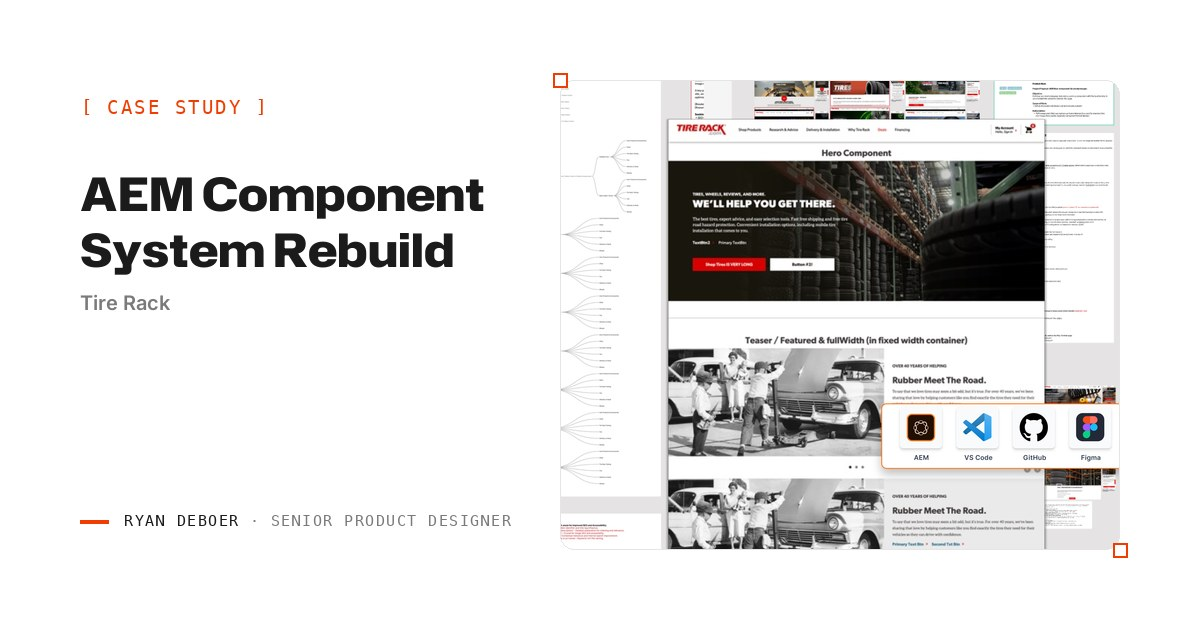
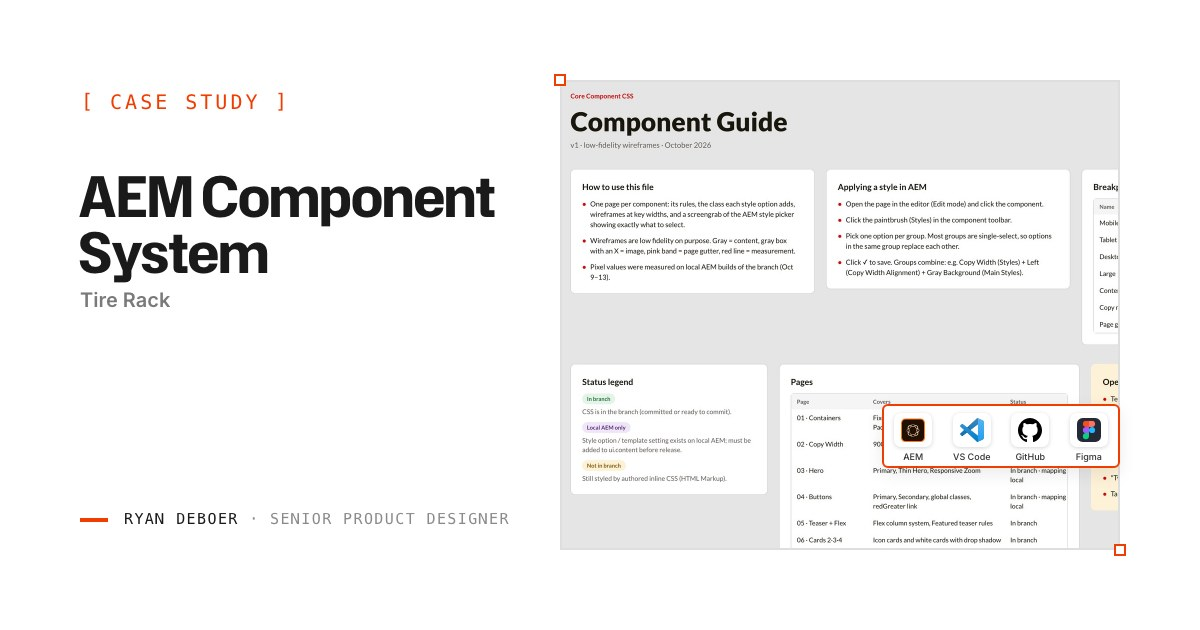
Reframe AEM case study around the Figma component guide

diff --git a/src/data/projects.ts b/src/data/projects.ts
@@ -227,6 +227,26 @@ const liveComponent = (name: string, alt: string, caption: string): ProjectImage
   alt, caption, layout: 'full',
 });
 
+// Boards from the October 2026 Figma component guide, rendered from the file
+// with the project number and branch name removed. Shared by the full study
+// and its compact edition so captions stay attached to the same artifact.
+const componentGuide = (name: string, alt: string, caption: string): ProjectImage => ({
+  src: `/images/work/aem-component-system/component-guide/${name}.jpg`,
+  alt, caption, layout: 'full',
+});
+const GUIDE = {
+  readMe: componentGuide('guide-read-me', 'Component guide read-me page with usage notes, AEM style steps, breakpoints, a status legend, the page index, and open items', 'The read-me page: how to use the guide, how to apply a style in AEM, breakpoints and key sizes, the status legend, and the open items.'),
+  containers: componentGuide('containers-rules', 'Containers page with layout rules, the class each style option adds, and AEM style picker screengrabs', 'Containers: one layout style and an optional background. Nested containers drop their side padding, so gutters never stack.'),
+  copyWidth: componentGuide('copy-width-rules', 'Copy Width page with alignment rules, class names, and AEM style picker screengrabs', 'Copy Width: a 900px column with its own alignment group. The recommended setup nests it inside a Fixed Width section.'),
+  flex: componentGuide('flex-rules', 'Teaser and Flex page with column rules by screen width and number of children', 'Teaser + Flex: columns follow the screen width and the number of children, and Featured teasers line their links up across each row.'),
+  table: componentGuide('table-gap', 'Table page documenting the tire size table as rendered today, marked Not in branch', 'Table: documented as rendered today and marked Not in branch, with a recommendation to move its rules under Tr Table.'),
+  heroUpdates: componentGuide('hero-branch-updates', 'List of hero changes made in the branch, each with the behavior it replaced', 'Hero: each change in the branch, listed beside the behavior it replaced.'),
+  teaserBeforeAfter: componentGuide('teaser-before-after', 'Featured teaser at 1024px before and after the branch, and stacked at 375px', 'Featured teaser at 1024px: the image pinned to the top before the branch, centered beside the copy after it, and stacked at 375px.'),
+  buttons: componentGuide('buttons-states-arrow-link', 'Button states and the wrapping rules for the arrow text link', 'Button states, the narrow-column rule, and the orphaned arrow the no-break space prevents.'),
+  heroAuthor: componentGuide('hero-author-primary', 'AEM editor reference with the hero selected, Styles open, numbered author steps, and the resulting classes', 'Author reference: the AEM editor at 1440px with Styles open, numbered steps, and the classes that result.'),
+  heroPreview: componentGuide('hero-author-preview', 'Homepage hero preview at 1440px and 375px with the image crop held at 50 percent', 'What visitors see at 1440px and at 375px, with the crop held at 50%.'),
+};
+
 const projects: Project[] = [
   {
     slug: 'figma-template-governance',
@@ -1159,107 +1179,93 @@ const projects: Project[] = [
   },
 
   // =============================================
-  // 5. AEM Component System Rebuild  [image RIGHT]
+  // 5. AEM Component System  [image RIGHT]
   // =============================================
   {
     slug: 'aem-component-system',
     context: TIRE_RACK_CONTEXT,
     publicContext: PUBLIC_RETAILER_CONTEXT,
-    thesis: 'Stop authoring and engineering from solving the same problem twice.',
+    thesis: 'Every style option gets a rule, a class, and a picture of what to pick.',
     annotations: {
-      problem: 'A decade of AEM authoring with no core system underneath.',
-      gaps: 'No reusable patterns, no variables. The same work, done twice.',
-      constraints: 'A live enterprise CMS and a dev team still learning the codebase.',
-      approach: 'I wrote the specs and shipped the production Sass.',
-      outcome: 'One system design, dev, SEO, and accessibility all build against.',
+      problem: 'Style options the CSS could not keep.',
+      gaps: 'Option names are not results.',
+      constraints: 'Two release paths: CSS in the branch, settings in ui.content.',
+      approach: 'Measured in AEM, defined in Figma, fixed in Sass.',
+      outcome: 'In branch, with the open items written down.',
     },
     stream: 'professional',
     client: 'Tire Rack',
-    title: 'AEM Component System Rebuild',
-    seoTitle: 'Adobe Experience Manager Design System & Storefront Performance Rebuild',
-    summary: 'I built eight AEM core-component variants with production Sass, authoring defaults, and documented contracts, and partnered with engineering on three API-driven components. The shared library powers the homepage, tires hub, events, and packages, with WebPageTest showing 60% faster loads.',
-    cardHook: 'Eight core-component variants and three API-driven components replaced one-off builds. Shared authoring rules connect the library to production, with WebPageTest showing 60% faster loads.',
-    year: '2024\u20132025',
-    tags: ['Design Systems', 'AEM', 'Front-End Development', 'UX Engineering', 'CMS'],
+    title: 'AEM Component System',
+    seoTitle: 'AEM Component Governance: Figma Specs, Edge Cases, and Production Sass',
+    summary: 'I documented the shared layer of our AEM core components in a Figma guide with seven component pages: the rules, the class each style option adds, wireframes measured on local AEM builds, and the steps an author takes. The Sass fixes live in the same branch, and the guide lists what is still open.',
+    cardHook: 'Authors could pick style options whose results were not defined anywhere they worked. A Figma guide now defines each option and its edge cases, with the Sass fixes alongside it.',
+    year: '2024–2026',
+    tags: ['Design Systems', 'AEM', 'Component Governance', 'UX Engineering', 'Sass', 'Documentation'],
     role: 'Senior Web Designer / UX Engineer',
     tools: ['AEM', 'Figma', 'Sass', 'HTML/CSS', 'Git'],
-    timeline: '~12 months (ongoing)',
+    timeline: 'Rebuild ~12 months · CSS overhaul ongoing',
     featured: '/images/work/aem-component-system/CS_thumbnail_AEM_componentSystemRebuild_safe.jpg',
     featuredVideo: '/assets/portfolio-safe/aem-component-system/cover-loop.mp4',
-    timeToLive: '12 months from kickoff to live components. Core variants and templates now power the homepage and tires hub.',
+    timeToLive: 'The core components went live after a 12-month rebuild. The CSS overhaul that followed is in a working branch, with the remaining steps to release written down in the guide.',
 
-    // \u2500\u2500 01 Problem \u2500\u2500
-    problemPunch: 'A decade of AEM authoring with no investment in core components, modern patterns, or a shared system.',
+    // ── 01 Problem ──
+    problemPunch: 'Style options in the picker did not always have a defined result behind them, and nothing showed an author what each one would do at each width.',
     problem: [
-      'I had been authoring in AEM since 2013. In all that time, the team never adopted core components, editable templates, or a scalable pattern library.',
-      'Every page was stitched together from aging custom components, one-off overrides, and asset dumps that slowed authoring and hurt page performance.',
-      'In 2025 we hired a dedicated AEM engineering team, which made it possible to rebuild the foundation instead of adding another patch.',
+      'The core components from our 2024–2025 rebuild were live, but parts of the shared CSS still carried older behavior, and a few options did not hold up at phone widths.',
+      'The style picker offered choices with nothing behind them: some options had no CSS, and some could not be combined with others.',
+      'Tire size tables took their look from CSS pasted into each page.',
     ],
-    // \u2500\u2500 02 Gaps & Opportunity \u2500\u2500
-    gapsPunch: 'No reusable patterns. No variable system. Authoring and engineering solving the same problems twice.',
+    // ── 02 Gaps & Opportunity ──
+    gapsPunch: 'The style picker lists option names, and the Sass holds the rules. Designers plan pages in Figma, where neither one shows up.',
     gaps: [
-      'Heroes, product grids, and teasers existed in five different flavors. None of them shared structure, tokens, or authoring behavior.',
-      'SEO and accessibility requirements were bolted on per page instead of baked into the component layer.',
-      'No shared Sass variables or authoring defaults. Every new page meant re-deciding spacing, type scale, and responsive behavior.',
-      'Design team had no documentation on when to use which component or how variants were meant to behave.',
+      'An author choosing Copy Width with Left alignment cannot see from the picker that, placed directly on the page, its copy starts at 109px at 1920 instead of lining up with Fixed Width at 312px.',
+      'Breakpoints, the 1296px content max, the 900px copy max, and the page gutter needed to be visible where pages are designed, not only in Sass.',
+      'Nothing in AEM shows whether a style option is committed to the branch, configured only on a local build, or still depends on CSS pasted into the page.',
+      'Each fix needed a record of the behavior it replaced, so the reason for the rule stays with the rule.',
     ],
-    // \u2500\u2500 03 Constraints \u2500\u2500
-    constraintsPunch: 'Live enterprise CMS. SEO-critical surfaces. A new dev team still learning the codebase.',
+    // ── 03 Constraints ──
+    constraintsPunch: 'Live pages, saved styles, and the rules of AEM’s own Style System.',
     constraints: [
-      'Work happened inside a live production AEM instance. Nothing could break authoring for merchandising or content teams mid-flight.',
-      'Every component had to carry SEO and accessibility rules from the start: a lazy-load toggle, H1 limits per surface, an eyebrow slot for keyword headroom without breaking hierarchy, and Akamai scoping so a page loads only its own JSP and CSS.',
-      'I completed AEM authoring certification, worked through Adobe\u2019s WKND tutorial, and deepened my Sass practice so I could contribute code beside the engineering team after the specs were written.',
-      'Fifteen years of DAM debt came with the rebuild: tagging, alt text, file naming, and governance across 100+ images. I led that cleanup. Findable assets and faster authoring mattered as much as the load time.',
+      'Saved styles had to keep rendering. Dozens of pages already use the Thin Hero variant, and the core page template renders saved hero styles only when it maps the Hero Teaser policy.',
+      'AEM’s Style System sets its own rules. Most style groups are single-select, and it drops a class that is a substring of one already applied.',
+      'Template and policy settings ship in the content package, separately from the CSS. A setting made on a local AEM build is not released until it is added to ui.content.',
+      'Containers had to match the gutter of pages built outside AEM, so the content edge holds when a visitor moves between them.',
+      'Most designers and authors work in Figma and the AEM editor, not in Sass. The rules had to read as measurements, pictures, and clicks.',
     ],
-    insightCallout: 'The value was the shared system: variables, variants, and documentation that design, engineering, SEO, and accessibility build against. I wrote the component specs and shipped production Sass beside them.',
+    insightCallout: 'A style option is a decision made for the author in advance. It needs CSS behind it, a defined result at every width, and a picture of what to select. The guide documents all three, the branch fixes what it can, and the open items name the rest.',
 
-    // \u2500\u2500 04 Approach (subsections) \u2500\u2500
+    // ── 04 Approach (subsections) ──
     approachSubsections: [
       {
         key: 'alignment',
-        label: "Extend core components with clear exceptions",
-        description: "I started with existing core components and exposed design choices through selectable style variants. The Hero needed its own heading-level options and an eyebrow integrated into the heading, unlike the full-width teaser. Keeping the other components under familiar core parents made onboarding and documentation clearer. Patrick Steins reviewed my branches, with SEO and accessibility requirements defined early.",
-        images: [],
+        label: 'Measure the branch before drawing the rule',
+        description: 'I measured the components on local AEM builds of the branch, at widths from 375 to 1920 pixels. Those measurements set the frame every page of the guide shares: four breakpoints, a 1296px content max, a 900px copy max, and a gutter of 5% minus the 14px column padding, matching pages outside AEM. A status legend marks every rule as in the branch, configured only on local AEM, or still pasted into the page.',
+        images: [GUIDE.readMe],
       },
       {
         key: 'structure',
-        label: 'A written contract before any component was built',
-        description: 'I wrote up each component: authoring fields, variants, responsive behavior, edge cases, and how it would plug into editable templates. Those write-ups became the contract that design and engineering built against.',
-        images: [
-          {
-            alt: 'Placeholder for omitted internal component write-up artifact',
-            layout: 'full',
-            caption: 'Write-up available on request.',
-            isOverlay: true,
-            overlayText: "This part of the work includes internal tooling and workflows I cannot share publicly. I am happy to walk through it in detail."
-          },
-        ],
+        label: 'Every component page reads in the same order',
+        description: 'Each page covers the rules, the class each style option adds, the steps in the AEM style picker with a screengrab, and wireframes at key widths. The wireframes stay low fidelity on purpose. Gray is content, a gray box with an X is an image, pink is the page gutter, and red is a measurement.',
+        images: [GUIDE.containers, GUIDE.copyWidth],
       },
       {
         key: 'system',
-        label: 'Eight variants, each shipping with its Sass and its docs',
-        description: 'Built 8 core component variants directly (heroes, teasers, lists, featured product blocks), each shipping with its Sass, authoring defaults, and documentation at the same time. For 3 additional API-driven foundation components, I wrote the utility and authoring behavior, defined the interaction pattern, provided SCSS, and oversaw implementation through replication with the dev team.',
-        gridColumns: 2,
-        images: [
-          {
-            src: '/images/work/aem-component-system/FinalComponentBuildout_Hero_safe.jpeg',
-            alt: 'Final hero component buildout showing variants and responsive behavior',
-            layout: 'half',
-            caption: 'Hero core: one component, multiple variants, consistent authoring',
-          },
-          {
-            src: '/images/work/aem-component-system/FinalComponentBuildout_Teasers_safe.jpeg',
-            alt: 'Final teaser component buildout with multiple layout variations',
-            layout: 'half',
-            caption: 'Teasers: built to handle editorial, promotional, and product surfaces from the same base',
-          },
-        ],
+        label: 'Reuse first, then a variant, then a named gap',
+        description: 'A full-bleed color band needed no new component: a Fixed Width container nested inside a Full Width one with a gray background keeps the copy aligned with every other section. Where reuse fell short, a style variant extended an existing component. Copy Width adds a 900px column to the layout container, and the Flex Container lays out existing teaser styles in columns set by the screen width and the number of children. The tire size table was a real gap. I documented it as rendered today and recommended moving its pasted CSS into the branch under the unused Tr Table style.',
+        images: [GUIDE.flex, GUIDE.table],
       },
       {
         key: 'build',
-        label: 'The Sass I wrote is the Sass that shipped',
+        label: 'Fix the edge case in Sass, and write down what it replaced',
         systemMarker: 'Codebase',
-        description: 'This was not a design-only handoff. I wrote the Sass, defined the global variable layer, and shipped component-level code alongside the dev team. That closed the gap between the design and what landed in production. File names in the excerpt below are redacted.',
+        description: 'I wrote the Sass alongside the guide. Each change in the branch is listed beside the behavior it replaced, so a reviewer can see why the rule exists.',
+        bullets: [
+          'Hero CTAs use min(250px, 100%). The old forced 350px minimum overflowed 375px phones once padding was added.',
+          'Phone hero content can shrink (min-width: 0), so long titles and buttons stay inside the screen instead of pushing the page sideways.',
+          'Featured teaser images center beside the copy. With object-position: top, a tall description left empty space under the image.',
+          'The red arrow on text links joins the last word with a no-break space, so it can never wrap onto a line by itself.',
+          'Copy Width alignment classes are named --align-left and --align-center. AEM’s Style System drops a class that is a substring of one already applied, and an earlier name silently removed Copy Width.',
+        ],
         codeBlock: {
           filename: 'components/heroTeaser/scss/styles/_default.scss (sanitized)',
           language: 'scss',
@@ -1306,27 +1312,27 @@ $mobile-max-width: 768px;
     }
   }
 }`,
-          caption: 'From a component-scoped Sass file I authored: variables for responsive ceilings, CSS custom properties as the token layer, and nested component states.',
+          caption: 'From the component-scoped Sass I wrote during the rebuild. Its fixed 250px CTA minimum is the behavior the overhaul changed to min(250px, 100%).',
         },
-        images: [],
+        images: [GUIDE.heroUpdates, GUIDE.teaserBeforeAfter, GUIDE.buttons],
       },
       {
         key: 'iteration',
-        label: "Rebuild the pages, then make future variants easier",
+        label: 'Show authors the result, and keep the open items in writing',
         systemMarker: 'Documentation',
-        description: "The new components required new core templates, so each page needed a full rebuild. That migration took months. Once those templates were in place, new component variants could be introduced without repeating the page overhaul. Documentation gives designers the fields, usage rules and responsive behavior for each variant.",
-        images: [],
+        description: 'High-fidelity references rebuild the live Homepage and Tire & Wheel Packages heroes, and a featured teaser from the 33-inch tires page, with real images, copy, and branch values. Numbered steps follow the AEM editor from selecting the component to the classes that result, and they record heading levels: the hero pretitle and title render as one H1, the teaser pair as one H2. Neither hero had a saved style, so each reference records the recommended selection. The read-me page keeps five open items in view until they close, starting with the template settings that still need to move into ui.content.',
+        images: [GUIDE.heroAuthor, GUIDE.heroPreview],
       },
     ],
 
-    // \u2500\u2500 05 Outcome \u2500\u2500
-    outcomeNote: "Load-speed, screen-reader and SEO checks helped us decide to extend the rebuild across the site. The reported 60% load-speed improvement comes from WebPageTest on pages using the new components. Authors now work within shared core templates that can accept new variants, using the same fields and rules engineering supports.",
+    // ── 05 Outcome ──
+    outcomeNote: 'The v1 guide has seven component pages: containers, copy width, hero, buttons, teaser and flex layouts, cards, and the tire size table. The CSS changes are in a working branch, and the guide records the steps that remain before release. The core components from the earlier rebuild are live, and WebPageTest reported 60% faster loads on pages using them.',
     takeaways: [
-  "Most components extend familiar core parents through selectable styles. The Hero's different heading and eyebrow controls remain explicit in its authoring rules.",
-  "Moving pages onto new templates took months. That investment made subsequent component variants easier to roll out.",
-  "I wrote the production Sass alongside engineering, with branch review and shared documentation.",
-  "The DAM cleanup covered tagging, alt text and file names across more than a hundred images."
-],
+      'Measurements come from local AEM builds of the branch, not from the design file.',
+      'Reuse came first: a full-bleed band is two existing containers nested together, not a new component.',
+      'Fixes are documented beside the behavior they replaced, including a class name AEM’s Style System silently dropped.',
+      'The tire size table is recorded as a component gap with a recommendation, rather than another pasted fix.',
+    ],
     outcomeLiveLinks: [
       { label: 'Tire Rack Homepage', url: 'https://www.tirerack.com/' },
       { label: 'Tires Landing', url: 'https://www.tirerack.com/tires' },
@@ -1335,8 +1341,8 @@ $mobile-max-width: 768px;
     ],
     metrics: [
       { value: '60%', label: 'Faster page loads (WebPageTest)' },
+      { value: '7', label: 'Component pages in the Figma guide' },
       { value: '10+', label: 'Reusable components shipped to production' },
-      { value: '100+', label: 'Images covered by DAM cleanup' },
     ],
   },
 
@@ -2211,23 +2217,18 @@ const compactEditions: Record<string, (project: Project) => ProjectOverview> = {
     outcome: 'Two junior designers use the templates. Complex pages take one or two weeks instead of about a month; standard pages about a week, and simple launches a day or two. The October 7 inventory shows the shared components in use across category and support pages. Migration and content QA continue.',
   }),
   'aem-component-system': p => ({
-    title: 'AEM Components', category: 'Professional work', status: 'Live · Shared authoring foundation',
-    deck: 'Eight core-component variants and three API-driven components form a shared library. The live examples below show how the same component supports different page needs.',
-    ownership: 'I wrote component specifications and production Sass alongside AEM engineering. Patrick Steins reviewed my branches; SEO and accessibility leads helped define the contracts.',
-    opening: evidence(p, 'system'),
+    title: 'AEM Components', category: 'Professional work', status: 'Live components · CSS overhaul in branch',
+    deck: 'A Figma guide with seven component pages documents how our AEM core components behave: the rules, the class each style option adds, wireframes measured on local AEM builds, and the steps an author takes in the style picker. The Sass fixes live in the same branch, and the guide marks what is not released yet.',
+    ownership: 'I measured the components, defined the rules and edge cases in Figma, wrote the Sass, and built the author references. The components came from an earlier rebuild, which I prepared for with AEM authoring certification. Patrick Steins reviewed my branches, and SEO and accessibility leads helped define the contracts.',
+    opening: evidence(p, 'alignment'),
     decisions: [
-      { title: 'Give the hero two distinct treatments', body: 'The thin Hero Teaser introduces category and support pages. The default, full-height treatment gives brand stories more room. Both use the Hero contract, with explicit heading-level and eyebrow controls.', images: [
-        liveComponent('hero-suspension', 'Thin Hero Teaser on the Suspension page', 'Thin variant · Suspension. A compact category introduction.'),
-        liveComponent('hero-about', 'Default full-height Hero Teaser on the About page', 'Default variant · About. More space for the brand story.'),
-      ] },
-      { title: 'Let teaser styles change the layout', body: 'Selectable styles turn the Teaser into product cards, icon-led steps, or a full-width story. The live comparisons show those variants in their page context.', images: [
-        liveComponent('teaser-lighting', 'Card and three-column Teaser variants on the Lighting page', 'Card + three-column · Lighting. Image, copy, and a call to action.'),
-        liveComponent('teaser-featured-decision-guide', 'Featured icon-led Teasers on the Tire Decision Guide', 'Featured · Tire Decision Guide. Icons explain the steps.'),
-        liveComponent('teaser-full-width-about', 'Full-width Teaser story band on the About page', 'Full-width · About. A story band with image and copy.'),
-      ] },
-      { title: 'Make the next variant easier to ship', body: 'The move to core templates required months of page rebuilding. Each variant now ships with Sass, authoring defaults, and documentation. I supplied behavior and styles for three additional API-driven components alongside engineering.' },
+      { title: 'Measure the build, then write the rule', body: 'Pixel values come from local AEM builds of the branch, measured at widths from 375 to 1920 pixels. The read-me page sets the frame every component shares, and a status legend marks each rule as in the branch, configured only on local AEM, or still pasted into the page.', image: GUIDE.readMe },
+      { title: 'Reuse first, then a variant, then a named gap', body: 'A full-bleed color band is two existing containers nested together, not a new component. Copy Width and the Flex Container extend the existing layout container. The tire size table was a real gap, so I documented it as rendered today and recommended moving its pasted CSS into the branch.', images: [GUIDE.flex, GUIDE.table] },
+      { title: 'Define the edge case, then fix it in Sass', body: 'Each change in the branch is listed beside the behavior it replaced: hero buttons that overflowed 375px phones, featured images pinned to the top of a tall row, and a red text-link arrow that could wrap onto a line by itself.', images: [GUIDE.teaserBeforeAfter] },
+      { title: 'Show authors exactly what to select', body: 'High-fidelity references recreate the AEM editor around live heroes, with numbered steps from selecting the component to the classes that result. Neither the Homepage nor the Packages hero had a saved style, so each reference records the recommended one.', images: [GUIDE.heroAuthor] },
     ],
-    outcome: 'The library powers live pages. WebPageTest reported 60% faster loads on pages using the new components. These captures come from the October 7 live inventory; the full study includes the production Sass and component specifications.',
+    outcome: 'The CSS overhaul is in branch, and the guide covers seven component pages. Template settings still need to move into ui.content before release, and the table stays inline until its rules move under Tr Table. The core components from the earlier rebuild are live, and WebPageTest reported 60% faster loads on pages using them.',
+    relatedNote: { href: '/notes/aem-meeting-authors-where-they-work/', label: 'Read my note on AEM authoring' },
   }),
   loopstack: p => ({
     title: 'LoopStack', category: 'Personal product', status: 'TestFlight · Personal pattern-review tool',

diff --git a/public/share/aem-component-system/index.html b/public/share/aem-component-system/index.html
@@ -2,22 +2,22 @@
 <html lang="en">
 <head>
   <meta charset="utf-8" />
-  <title>AEM Component System Rebuild — Ryan DeBoer</title>
-  <meta name="description" content="Rebuilt the authoring system around reusable core components. Shipped 10+ live components with 60% faster page loads and a shared foundation for design, dev, SEO, and accessibility." />
+  <title>AEM Component Governance: Figma Specs, Edge Cases, and Production Sass — Ryan DeBoer</title>
+  <meta name="description" content="A Figma guide for AEM core components: rules, edge cases, the class each style option adds, and the steps authors take, with the Sass fixes in the same branch." />
   <meta name="robots" content="noindex" />
   <link rel="canonical" href="https://www.rdeboerdesigns.com/work/aem-component-system/" />
   <meta property="og:type" content="article" />
   <meta property="og:site_name" content="Ryan DeBoer" />
   <meta property="og:url" content="https://www.rdeboerdesigns.com/work/aem-component-system/" />
-  <meta property="og:title" content="AEM Component System Rebuild" />
-  <meta property="og:description" content="Rebuilt the authoring system around reusable core components. Shipped 10+ live components with 60% faster page loads and a shared foundation for design, dev, SEO, and accessibility." />
+  <meta property="og:title" content="AEM Component System" />
+  <meta property="og:description" content="A Figma guide for AEM core components: rules, edge cases, the class each style option adds, and the steps authors take, with the Sass fixes in the same branch." />
   <meta property="og:image" content="https://www.rdeboerdesigns.com/images/social/cs-aem-component-system.jpg" />
   <meta property="og:image:width" content="1200" />
   <meta property="og:image:height" content="630" />
-  <meta property="og:image:alt" content="AEM Component System Rebuild — case study by Ryan DeBoer" />
+  <meta property="og:image:alt" content="AEM Component System, a case study by Ryan DeBoer" />
   <meta name="twitter:card" content="summary_large_image" />
-  <meta name="twitter:title" content="AEM Component System Rebuild" />
-  <meta name="twitter:description" content="Rebuilt the authoring system around reusable core components. Shipped 10+ live components with 60% faster page loads and a shared foundation for design, dev, SEO, and accessibility." />
+  <meta name="twitter:title" content="AEM Component System" />
+  <meta name="twitter:description" content="A Figma guide for AEM core components: rules, edge cases, the class each style option adds, and the steps authors take, with the Sass fixes in the same branch." />
   <meta name="twitter:image" content="https://www.rdeboerdesigns.com/images/social/cs-aem-component-system.jpg" />
   <meta http-equiv="refresh" content="0; url=/work/aem-component-system/" />
   <script>window.location.replace('/work/aem-component-system');</script>

diff --git a/src/components/CaseStudyPlayground.tsx b/src/components/CaseStudyPlayground.tsx
@@ -147,7 +147,7 @@ const CARD_PREVIEWS: Record<string, { title: string; line: string }> = {
   'design-enablement': { title: 'Tools that scale design', line: 'I built a production-accurate crop simulator and reusable review components so teams can check imagery before it reaches AEM.' },
   playdraft: { title: 'PlayDraft: A social drafting game', line: 'I designed the brand, game, and system, then built and released the iPhone app with agents.' },
   loopstack: { title: 'LoopStack: Patterns worth reviewing', line: 'I designed and built a Type 1 diabetes app for reviewing meal and glucose patterns with a care team.' },
-  'aem-component-system': { title: 'AEM Component System', line: 'I wrote AEM component specifications and production Sass so designers could author pages with shared templates and variants.' },
+  'aem-component-system': { title: 'AEM Component System', line: 'I defined AEM component rules and edge cases in Figma, wrote the Sass fixes, and documented each style choice for the authors who make it.' },
   'tire-categories': { title: 'Tire Category Redesign: Path to the right tire', line: 'I rebuilt 30+ category pages into a guided system that helps shoppers choose without tire expertise.' },
   'seasonal-content-system': { title: 'Seasonal content, without rebuilds', line: 'Experience Fragments and Adobe Target deliver seasonal imagery to regional audiences while SEO copy stays consistent.' },
   'overscroll-tactics': { title: 'Overscroll Tactics: A studio identity', line: 'I built the identity behind PlayDraft, carrying one mark and motion system across web and native.' },
